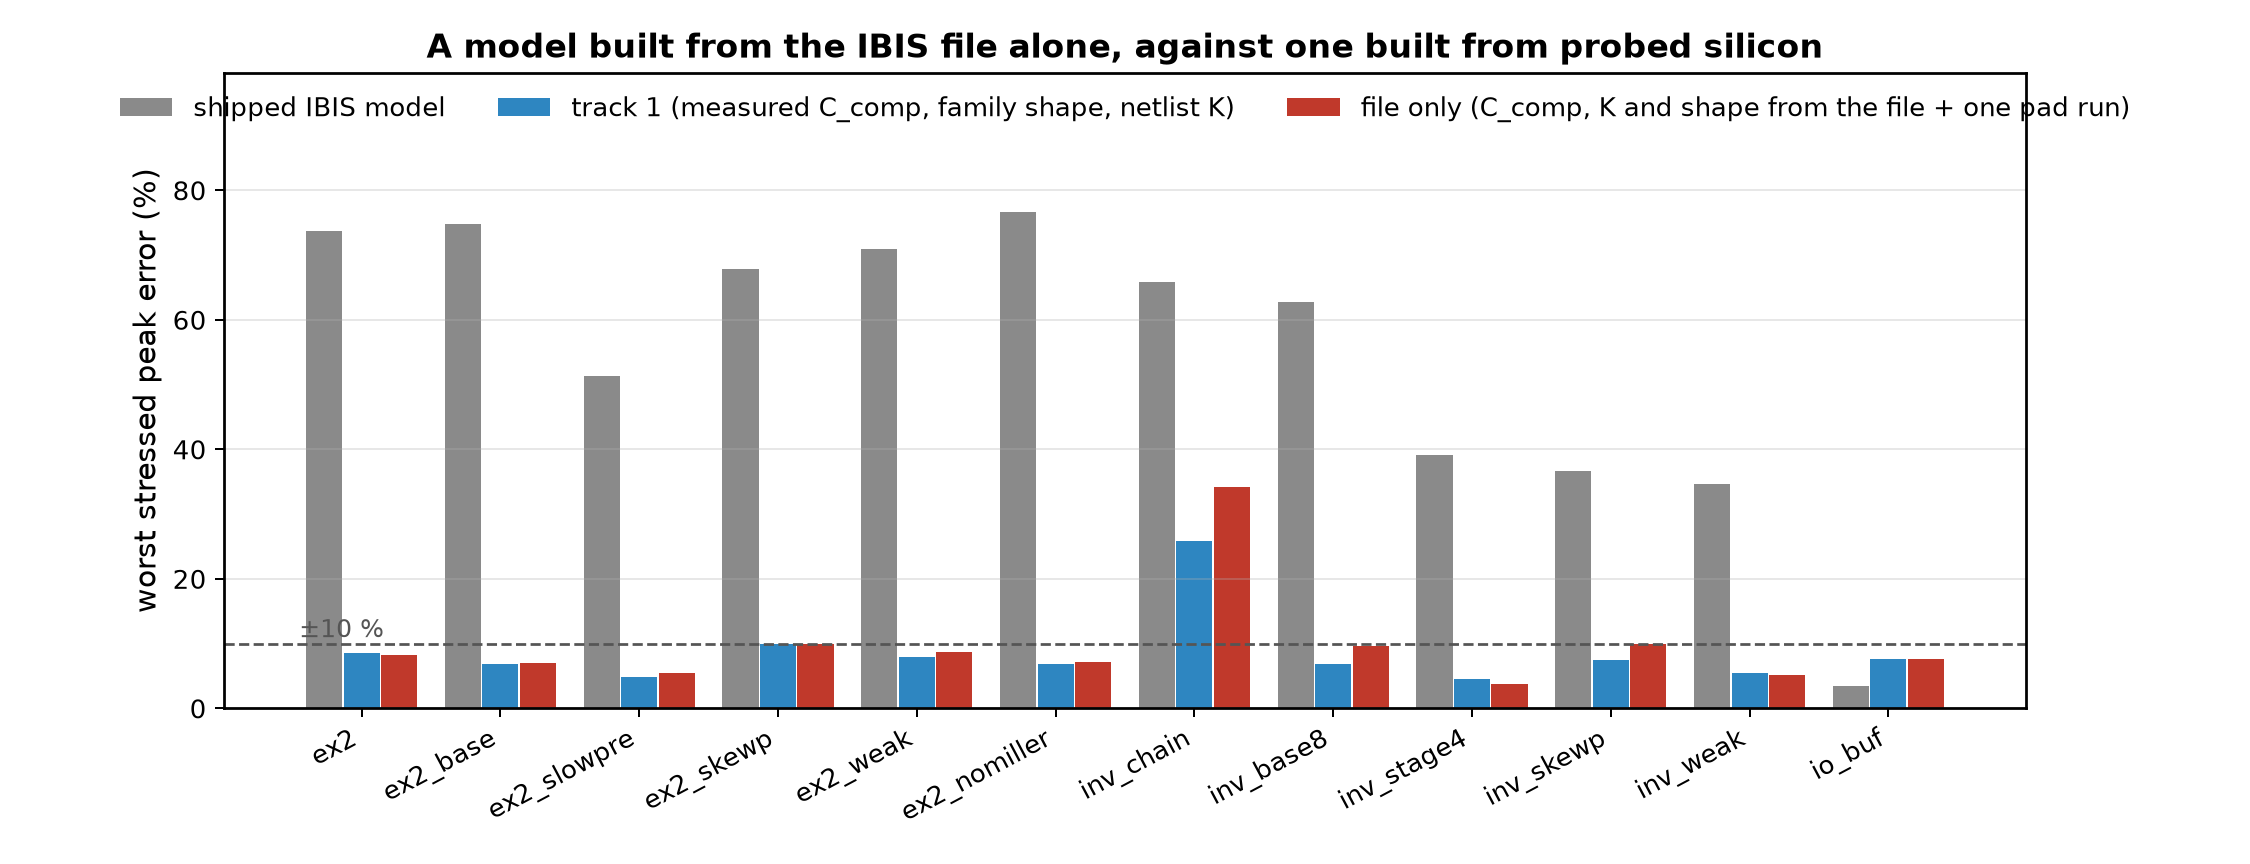
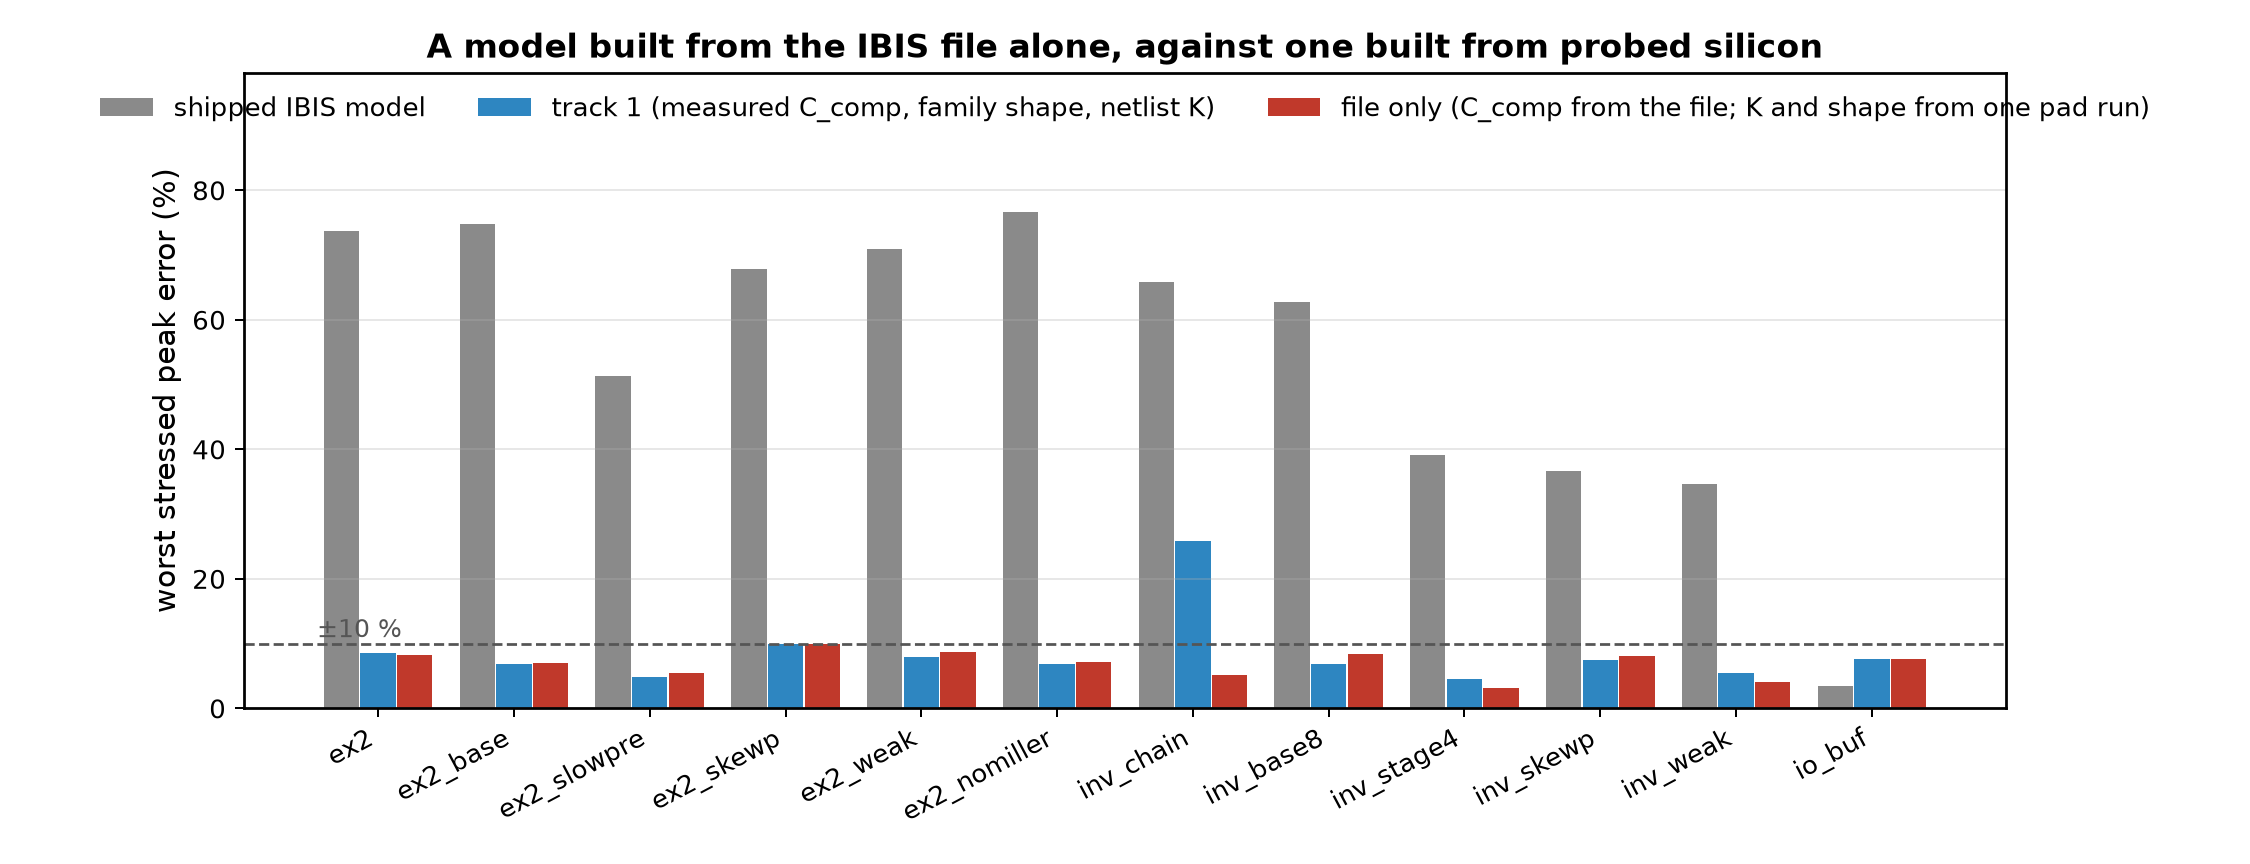
Show the final recipe in the figure and summary
The end-to-end figure now plots the builds the waveform selector picks (12 of 12 under the
10 % line), and the summary's recipe table and next steps match what the selector does.

diff --git a/scripts/build_0923_figures.py b/scripts/build_0923_figures.py
@@ -66,31 +66,33 @@ def worst(sweep: Path, which="chain"):
 
 def fig_endtoend():
     """Per buffer: the shipped model, the track-1 build, and the file-only build."""
+    # the final recipe: (K, shape) chosen on the whole pad waveform of the one stressed run
+    sel = {r["buffer"]: r for r in rows(R / "selector_from_one_run_2026-09-23" / "selector_picks.csv")}
     e2e = {r["buffer"]: r for r in rows(SC / "step6_endtoend.csv")}
     split = {r["buffer"]: r for r in rows(SC / "step4_split.csv")}
     devs, ship, tr1, fo = [], [], [], []
     for dev, b in sc.BUFFERS.items():
         tag = sc.build_dir("step2f", dev, b["k_net"][0], b["k_net"][1])
-        if tag is None or dev not in e2e:
+        if tag is None or dev not in sel:
             continue
         devs.append(dev)
         ship.append(worst(tag / "sweep.csv", "shipped")[0] or np.nan)
         tr1.append(float(split[dev]["step2_worst_peak_pct"]) if dev in split else np.nan)
-        fo.append(float(e2e[dev]["worst_peak_pct"]))
+        fo.append(float(sel[dev]["rms_pct"]))
     x = np.arange(len(devs))
     with plt.rc_context(BODY):
         fig, ax = plt.subplots(figsize=(12.5, 4.8))
         ax.bar(x - 0.27, ship, 0.26, color=SHIPPED, label="shipped IBIS model")
         ax.bar(x, tr1, 0.26, color=TRACK1, label="track 1 (measured C_comp, family shape, netlist K)")
-        ax.bar(x + 0.27, fo, 0.26, color=FILEONLY, label="file only (C_comp, K and shape from the file + one pad run)")
+        ax.bar(x + 0.27, fo, 0.26, color=FILEONLY, label="file only (C_comp from the file; K and shape from one pad run)")
         ax.axhline(10, color="#555555", ls="--", lw=1.1)
-        ax.text(len(devs) - 0.4, 10.6, "±10 %", fontsize=10, color="#555555")
+        ax.text(-0.45, 11, "±10 %", fontsize=10, color="#555555")
         ax.set_xticks(x, devs, rotation=28, ha="right")
         ax.set_ylabel("worst stressed peak error (%)")
-        ax.set_ylim(0, min(70, np.nanmax(ship) * 1.1))
+        ax.set_ylim(0, np.nanmax(ship) * 1.28)          # room for the legend above the tallest bar
         ax.set_title("A model built from the IBIS file alone, against one built from probed silicon",
                      fontweight="bold")
-        ax.legend(loc="upper left")
+        ax.legend(loc="upper center", ncol=3, frameon=False)
         ax.grid(axis="y", alpha=0.3)
         save(fig, "endtoend.png")
 
@@ -135,7 +137,7 @@ def fig_inv_chain_gate(depth=106):
     tt, pt_ = gp.tr0_pad(dref / "run.tr0")
     tw, gw = gr.real_gate(dev, depth, gr.GATES[dev][0])
     rev = gp.RISE_NS + w
-    g = np.arange(rev - 0.35, rev + 0.9, 0.002)
+    g = np.arange(rev - 0.15, rev + 0.6, 0.002)      # the pulse, not the quiet either side of it
     with plt.rc_context(BODY):
         fig, (a, b) = plt.subplots(2, 1, figsize=(8.6, 7.0), sharex=True)
         a.plot((g - rev) * 1e3, np.interp(g, tw, gw), color="#111111", lw=2.6, label="transistor gate")

diff --git a/results/track1_summary_2026-09-23/SUMMARY.md b/results/track1_summary_2026-09-23/SUMMARY.md
@@ -21,8 +21,8 @@ The recipe reads four things from the file plus one measurement:
 | what | where it comes from | study |
 |---|---|---|
 | C_comp | the file's own Ku overshoot knee - Ku cannot exceed 1, so the file rejects an impossible value | `ccomp_from_file_2026-09-22` |
-| stage count K | fit K = 1...10 to that model's Ku(t), build the band, keep the K whose **pad timing** matches | `stage_count_from_file_2026-09-21` step 6 |
-| curve shape | chosen with K, from the same timing | step 8 |
+| stage count K | fit K = 1...10 to that model's Ku(t), build the band, keep the pair whose **pad waveform** matches the one stressed run | steps 6 and 8, `selector_from_one_run_2026-09-23` |
+| curve shape | chosen together with K, from that same waveform | step 8 + the selector |
 | stage threshold | calibrated on the same stressed run | (existing) |
 
 `endtoend.png` is the per-buffer picture; the shipped IBIS model is at 35-70 % on the same
@@ -39,8 +39,8 @@ pulses where ours is at 5-10 %.
 * **A correction you should know about.** inv_chain's older 7 % numbers were wrong: the models
   they used carried the converter's old input threshold (1.4 V, from the 2 V Vinh its IBIS
   declares on a 1.8 V part), which masks its error threefold. Rebuilt on today's converter it
-  is 25.8 %, and the 12-of-12 baseline is really 11 of 12. Only inv_chain moved; every other
-  buffer is identical to the decimal.
+  is 25.8 %, so the **track-1** baseline (measured C_comp, measured shape, netlist K) is 11 of
+  12, not 12 of 12. Only inv_chain moved; every other buffer is identical to the decimal.
 * **io_buf is not the well-behaved buffer** - only its pull-up is. On short-LOW pulses it is
   16-21 points too shallow, and the reason is structural: its pull-down chain never turns on
   at all (each stage must drag the next past 0.7 of the swing, so a 163-322 ps pulse dies in
@@ -67,12 +67,16 @@ pulses where ours is at 5-10 %.
 
 ## Where I would go next
 
-1. **A better selector.** Timing alone leaves 1-6 points on the table on most buffers. Using
-   timing and peak together over the (K, shape) grid is cheap - the builds already exist.
-2. **The train as the second characterisation point**, to pin C_comp and the recovery the
-   single pulse cannot see.
-3. **io_buf's pull-down**, which needs its own stressed point and a chain that a short pulse
-   can actually propagate through.
+1. **Score the waveform, not the peak.** The worst-peak score rewards a chain that turns on
+   late (the "best" pairs in the grid lag 155-300 ps). Scoring the pad waveform at every width
+   would rank models by what we actually care about, and would change which of these results
+   look good.
+2. **The train as the second characterisation point**, to pin C_comp (its settled error is
+   monotone in C_comp where the single pulse is blind) and the recovery underneath it.
+3. **io_buf's pull-down**, which needs its own stressed point and a chain a short pulse can
+   propagate through at all.
+4. **Robustness**: one selected build (io_buf 0.4/0.9) cannot be simulated on a train. A recipe
+   that can pick an unsimulable model needs a guard.
 
 ## The studies
 
@@ -86,3 +90,4 @@ pulses where ours is at 5-10 %.
 | `io_buf_pulldown_depth_2026-09-22` | Kd is unidentifiable; the pull-down direction is 16-21 points shallow |
 | `io_buf_pulldown_calib_2026-09-23` | why: the pull-down chain is inert; the pull-up's turn-off is the knob |
 | `train_check_today_2026-09-23` | the train, where the shipped model still wins |
+| `selector_from_one_run_2026-09-23` | selecting on the whole waveform: 12 of 12 |
